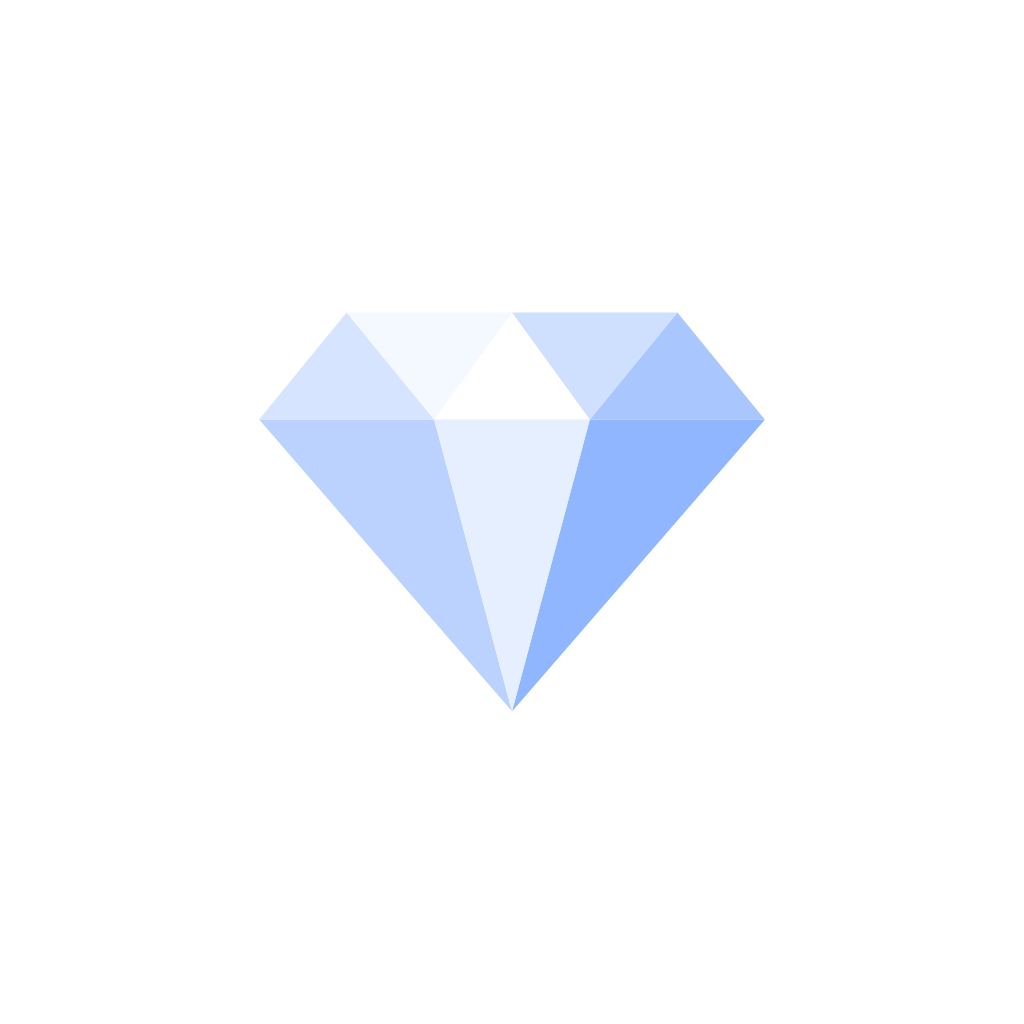
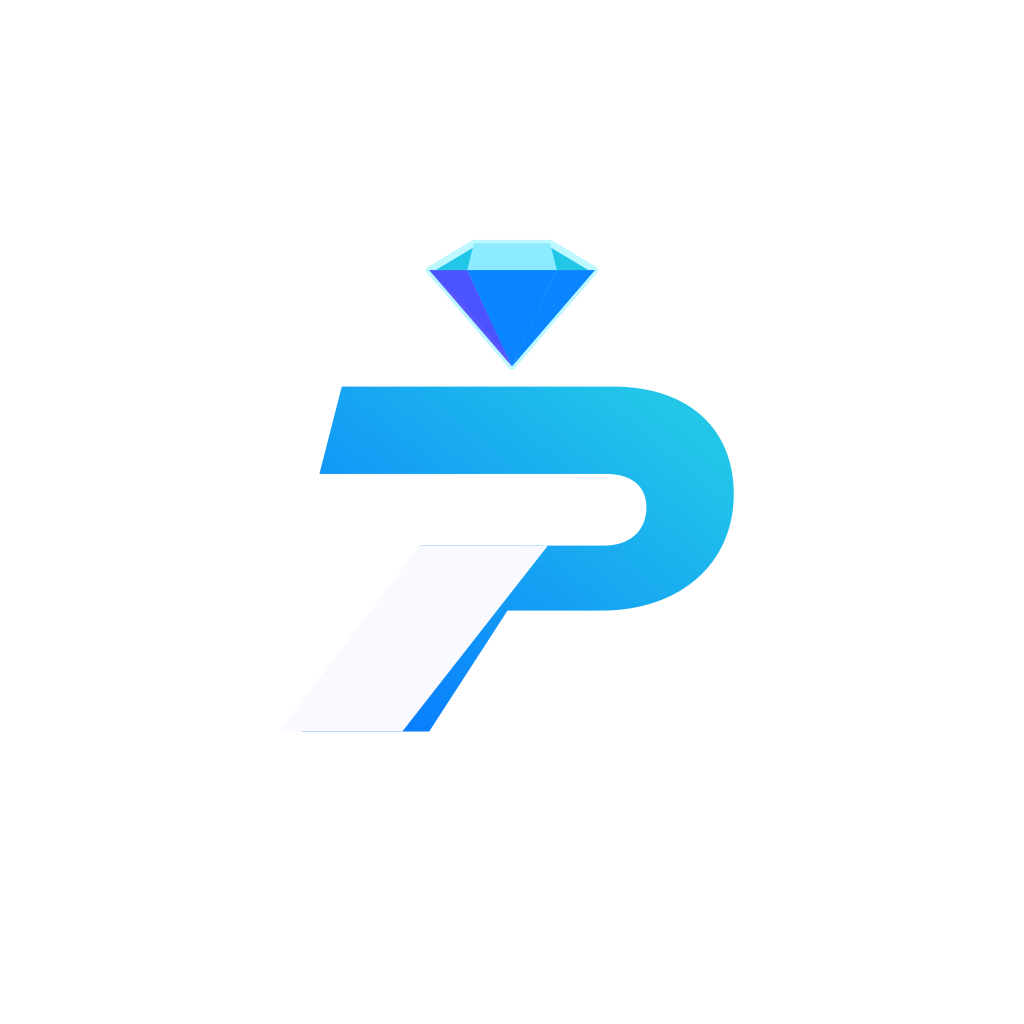
Update UX/UI of all pages

Changed region(s): [[0.25, 0.2188, 0.75, 0.7188]]

diff --git a/src/components/MatchCards.tsx b/src/components/MatchCards.tsx
@@ -1,6 +1,6 @@
 import React from 'react';
 import { Pressable, Text, View } from 'react-native';
-import { Button, ClubAvatar, ClubVerificationBadge, MatchStatusBadge, PressScale, Row, TeamAvatar, pts, whenShort } from '../ui';
+import { ClubAvatar, ClubVerificationBadge, MatchStatusBadge, PressScale, Row, TeamAvatar, pts, whenShort } from '../ui';
 import { CalendarIcon, ChevronRightIcon } from '../icons';
 import { colors, radius, spacing } from '../theme';
 import type { Match } from '../types';
@@ -31,44 +31,49 @@ export function ClubLine({ m, size = 18 }: { m: Match; size?: number }) {
 }
 
 /** One side of a match: avatar, name and its multipliers / open diamonds. Tapping it opens the prediction slip on that side. */
-export function TeamPlayerCard({ m, k, onOpen, compact }: { m: Match; k: 'a' | 'b'; onOpen: OpenMatch; compact?: boolean }) {
+export function TeamPlayerCard({ m, k, onOpen, compact, dense }: { m: Match; k: 'a' | 'b'; onOpen: OpenMatch; compact?: boolean; dense?: boolean }) {
   const col = k === 'a' ? colors.primary : colors.warning;
   const won = m.status === 'settled' && m.result === k;
   const name = k === 'a' ? m.side_a : m.side_b;
   return (
     <PressScale onPress={() => onOpen(m, k)} scaleTo={0.96} wrapStyle={{ flex: 1 }} style={{
-      flex: 1, alignItems: 'center', justifyContent: 'center', paddingVertical: compact ? 10 : 12, paddingHorizontal: 8, borderRadius: radius.md,
+      flex: 1, alignItems: 'center', justifyContent: 'center', paddingVertical: dense ? 8 : compact ? 10 : 12, paddingHorizontal: dense ? 6 : 8, borderRadius: radius.md,
       backgroundColor: won ? colors.success + '1A' : colors.bg2, borderWidth: won ? 1.5 : 1, borderColor: won ? colors.success : colors.line,
     }}>
-      <TeamAvatar name={name} color={col} size={compact ? 38 : 46} />
-      {m.has_score && (m.score_a != null || m.score_b != null) ? <Text style={{ color: colors.text, fontSize: compact ? 24 : 30, fontWeight: '800', marginTop: 6, letterSpacing: -0.5 }}>{(k === 'a' ? m.score_a : m.score_b) ?? 0}</Text> : null}
-      <Text style={{ color: colors.text, fontWeight: '700', fontSize: 14, marginTop: 8, textAlign: 'center' }} numberOfLines={2}>{name}</Text>
-      <Text style={{ color: won ? colors.success : col, fontSize: 12, fontWeight: '700', marginTop: 2, textAlign: 'center' }}>{won ? '🏆 Won' : detail(m, k)}</Text>
+      <TeamAvatar name={name} color={col} size={dense ? 32 : compact ? 38 : 46} />
+      {m.has_score && (m.score_a != null || m.score_b != null) ? <Text style={{ color: colors.text, fontSize: dense ? 20 : compact ? 24 : 30, fontWeight: '800', marginTop: dense ? 3 : 6, letterSpacing: -0.5 }}>{(k === 'a' ? m.score_a : m.score_b) ?? 0}</Text> : null}
+      <Text style={{ color: colors.text, fontWeight: '700', fontSize: dense ? 13 : 14, marginTop: dense ? 5 : 8, textAlign: 'center' }} numberOfLines={dense ? 1 : 2}>{name}</Text>
+      <Text style={{ color: won ? colors.success : col, fontSize: dense ? 11.5 : 12, fontWeight: '700', marginTop: dense ? 1 : 2, textAlign: 'center' }}>{won ? '🏆 Won' : detail(m, k)}</Text>
     </PressScale>
   );
 }
 
-/** Prominent card for matches that are open for predictions. */
+/** Card for matches that are open for predictions. Kept compact (about 30% shorter than the first version) so more live matches fit on screen. */
 export function LiveMatchCard({ m, onOpen }: { m: Match; onOpen: OpenMatch }) {
   return (
-    <View style={{ backgroundColor: colors.card, borderRadius: radius.xl, borderWidth: 1, borderColor: m.status === 'open' ? colors.success + '55' : colors.line, padding: spacing.lg, marginBottom: 12 }}>
+    <View style={{ backgroundColor: colors.card, borderRadius: radius.lg, borderWidth: 1, borderColor: m.status === 'open' ? colors.success + '55' : colors.line, padding: 12, marginBottom: 10 }}>
       <Row style={{ justifyContent: 'space-between' }}>
-        <Text style={{ color: colors.primarySoft, fontWeight: '700', fontSize: 12.5, flex: 1, marginRight: 8 }} numberOfLines={1}>
+        <Text style={{ color: colors.primarySoft, fontWeight: '700', fontSize: 12, flex: 1, marginRight: 8 }} numberOfLines={1}>
           {m.category_icon ? `${m.category_icon} ` : ''}{m.category ?? 'Match'}{m.event ? ` · ${m.event}` : ''}
         </Text>
-        <MatchStatusBadge status={m.status} />
+        <MatchStatusBadge status={m.status} compact />
       </Row>
-      <Pressable onPress={() => onOpen(m)}>
-        <Text style={{ color: colors.text, fontSize: 18, fontWeight: '800', marginTop: 10, letterSpacing: -0.2 }} numberOfLines={2}>{m.title}</Text>
+      <Pressable onPress={() => onOpen(m)} accessibilityRole="button" accessibilityLabel={`Open ${m.title}`}>
+        <Text style={{ color: colors.text, fontSize: 16, fontWeight: '800', marginTop: 6, letterSpacing: -0.2 }} numberOfLines={1}>{m.title}</Text>
       </Pressable>
-      <View style={{ marginTop: 6 }}><ClubLine m={m} /></View>
-      <Row style={{ marginTop: 14, alignItems: 'stretch' }}>
-        <TeamPlayerCard m={m} k="a" onOpen={onOpen} />
-        <View style={{ width: 34, alignItems: 'center', justifyContent: 'center' }}><Text style={{ color: colors.dim, fontWeight: '800', fontSize: 12 }}>VS</Text></View>
-        <TeamPlayerCard m={m} k="b" onOpen={onOpen} />
+      <View style={{ marginTop: 3 }}><ClubLine m={m} size={16} /></View>
+      <Row style={{ marginTop: 10, alignItems: 'stretch' }}>
+        <TeamPlayerCard m={m} k="a" onOpen={onOpen} dense />
+        <View style={{ width: 28, alignItems: 'center', justifyContent: 'center' }}><Text style={{ color: colors.dim, fontWeight: '800', fontSize: 11 }}>VS</Text></View>
+        <TeamPlayerCard m={m} k="b" onOpen={onOpen} dense />
       </Row>
-      <MyPredicted m={m} style={{ marginTop: 10, textAlign: 'center' }} />
-      <Button title={m.status === 'open' ? 'View match & predict' : 'View match'} onPress={() => onOpen(m)} small style={{ marginTop: 14 }} />
+      <Row style={{ marginTop: 8, justifyContent: 'space-between' }}>
+        <MyPredicted m={m} style={{ flex: 1, marginRight: 8, fontSize: 12 }} />
+        <PressScale onPress={() => onOpen(m)} accessibilityLabel={m.status === 'open' ? 'View match and predict' : 'View match'}
+          style={{ backgroundColor: colors.primary, borderRadius: radius.pill, paddingHorizontal: 14, minHeight: 32, alignItems: 'center', justifyContent: 'center' }}>
+          <Text style={{ color: colors.white, fontWeight: '800', fontSize: 12.5 }}>{m.status === 'open' ? 'Predict' : 'View'}</Text>
+        </PressScale>
+      </Row>
     </View>
   );
 }

diff --git a/src/components/Brand.tsx b/src/components/Brand.tsx
@@ -1,0 +1,60 @@
+import React from 'react';
+import { Text, View } from 'react-native';
+import Svg, { Defs, LinearGradient, Path, Stop } from 'react-native-svg';
+import { colors, font } from '../theme';
+
+/* Official PickArena diamond-P mark and faceted diamond (vector paths from the brand kit: public/branding/pickarena-mark.svg). */
+
+function Gem() {
+  return (
+    <>
+      <Path d="M91 20 111 8h34l20 12-37 43Z" fill="#22C7E8" stroke="#BDF7FF" strokeWidth={3} strokeLinejoin="round" />
+      <Path d="M91 20h74l-17 17h-40Z" fill="#35D9FF" />
+      <Path d="M111 8 108 20h40l-3-12Z" fill="#8CEBFF" />
+      <Path d="m108 20 20 43 20-43Z" fill="#0A84FF" />
+      <Path d="m91 20 17 0 20 43Z" fill="#4F46FF" opacity={0.9} />
+      <Path d="m165 20-17 0-20 43Z" fill="#0A84FF" />
+    </>
+  );
+}
+
+/** The standalone diamond + P mark, for compact spaces, headers and avatars. `light` gives the P a dark tail for light backgrounds. */
+export function BrandMark({ size = 32, light = false }: { size?: number; light?: boolean }) {
+  return (
+    <Svg width={size} height={size} viewBox="0 0 256 256" accessibilityLabel="PickArena" accessible>
+      <Defs>
+        <LinearGradient id="paBlue" x1="0.08" y1="0.9" x2="0.9" y2="0.1">
+          <Stop offset="0" stopColor="#087BFF" />
+          <Stop offset="1" stopColor="#22C7E8" />
+        </LinearGradient>
+      </Defs>
+      <Gem />
+      <Path fill="url(#paBlue)" d="M52 72h121c34 0 54 19 54 48 0 31-24 52-59 52h-42l-35 54H34l53-83h82c12 0 19-7 19-17 0-9-6-15-18-15H42Z" />
+      <Path fill={light ? '#14307A' : '#F8FAFF'} d="M87 143h57l-65 83H24Z" />
+    </Svg>
+  );
+}
+
+/** The PickArena virtual diamond: the faceted gem from the logo. Use it everywhere a diamond amount or reward appears. */
+export function DiamondGem({ size = 20 }: { size?: number }) {
+  return (
+    <Svg width={size} height={size} viewBox="88 -4.5 80 80" accessibilityElementsHidden importantForAccessibility="no-hide-descendants">
+      <Gem />
+    </Svg>
+  );
+}
+
+const SIZES = { sm: { gem: 14, text: 13 }, md: { gem: 18, text: 15 }, lg: { gem: 26, text: 22 }, xl: { gem: 36, text: 30 } } as const;
+
+/** [gem] 2,450. Virtual diamonds only: no currency symbol, nothing that suggests real money. */
+export function DiamondBalance({ value, size = 'md', prefix, color = colors.text }: { value: number | string; size?: keyof typeof SIZES; prefix?: string; color?: string }) {
+  const n = Number(value);
+  const shown = Number.isFinite(n) ? n.toLocaleString('en-US') : String(value);
+  const d = SIZES[size];
+  return (
+    <View accessible accessibilityLabel={`${prefix ?? ''}${shown} diamonds`} style={{ flexDirection: 'row', alignItems: 'center' }}>
+      <DiamondGem size={d.gem} />
+      <Text style={{ color, fontSize: d.text, fontWeight: font.weight.heavy, marginLeft: 6 }}>{prefix}{shown}</Text>
+    </View>
+  );
+}

diff --git a/src/ui.tsx b/src/ui.tsx
@@ -1,3 +1,4 @@
+import { BrandMark, DiamondGem } from './components/Brand';
 import React, { useEffect, useRef, useState } from 'react';
 import {
   ActivityIndicator, Animated, Easing, Image, Pressable, RefreshControl, ScrollView, StyleSheet, Text, TextInput, TextInputProps, View, ViewStyle,
@@ -45,11 +46,9 @@ export function PressScale({ children, onPress, style, wrapStyle, disabled, scal
 
 export function Logo({ size = 30 }: { size?: number }) {
   return (
-    <View style={{ flexDirection: 'row', alignItems: 'center' }}>
-      <View style={{ width: size, height: size, borderRadius: size * 0.3, backgroundColor: colors.primary, alignItems: 'center', justifyContent: 'center', marginRight: 8 }}>
-        <DiamondIcon size={size * 0.62} color={colors.white} />
-      </View>
-      <Text style={s.brand}>Pick<Text style={{ color: colors.primarySoft }}>Arena</Text></Text>
+    <View style={{ flexDirection: 'row', alignItems: 'center' }} accessible accessibilityLabel="PickArena">
+      <BrandMark size={size * 1.25} />
+      <Text style={[s.brand, { marginLeft: 6 }]}>Pick<Text style={{ color: colors.primarySoft }}>Arena</Text></Text>
     </View>
   );
 }
@@ -61,7 +60,7 @@ export function DiamondWalletButton() {
   const total = (q.data ?? []).filter((x) => x.membership === 'approved').reduce((a, x) => a + Number(x.balance ?? 0), 0);
   return (
     <PressScale onPress={() => nav.navigate('AddDiamonds')} accessibilityLabel="Add diamonds" hitSlop={8} style={s.pill}>
-      <DiamondIcon size={16} color={colors.primarySoft} />
+      <DiamondGem size={18} />
       <Text style={s.pillText}>{pts(total)}</Text>
       <View style={s.plus}><PlusIcon size={14} color={colors.white} /></View>
     </PressScale>

diff --git a/src/theme.ts b/src/theme.ts
@@ -1,25 +1,34 @@
-/** Central design tokens for PickArena. Change a value here and the whole app follows. */
+/** Central design tokens for PickArena (PickArena Diamond brand kit). Change a value here and the whole app follows.
+ *  Mirrors public/branding/brand-tokens.css on the website. */
+export const gradients = {
+  primary: ['#0A84FF', '#4F46FF'] as const,
+  diamond: ['#22C7E8', '#3DD8FF', '#0A84FF'] as const,
+};
+
 export const colors = {
-  bg: '#0B1020',
-  bg2: '#11192B',
-  card: '#171F35',
-  elevated: '#202B49',
-  line: '#293550',
-  primary: '#397BFF',
-  primarySoft: '#75A7FF',
-  success: '#18C987',
+  bg: '#0B1226',
+  bg2: '#111B33',
+  card: '#162442',
+  elevated: '#1C2E52',
+  line: '#263653',
+  primary: '#0A84FF',
+  primarySoft: '#3DD8FF',
+  secondary: '#4F46FF',   // brand violet-blue, used in the primary gradient
+  cyan: '#22C7E8',
+  diamond: '#3DD8FF',
+  success: '#10B981',
   warning: '#FF906F',
-  danger: '#FF5D6C',
-  amber: '#F5B544',
-  text: '#F4F6FF',
-  dim: '#929DB8',
+  danger: '#EF4444',
+  amber: '#FFC542',
+  text: '#F8FAFF',
+  dim: '#94A3B8',
   white: '#FFFFFF',
 };
 
 export const spacing = { xs: 4, sm: 8, md: 12, lg: 16, xl: 24, xxl: 32 };
 export const radius = { sm: 8, md: 12, lg: 16, xl: 22, pill: 999 };
 
-/** Inter / SF Pro are used when installed; the system font (SF Pro on iOS, Roboto on Android) otherwise. */
+/** Brand font is Plus Jakarta Sans. It is used once the font is loaded (see README, Brand), the system font (SF Pro on iOS, Roboto on Android) until then. */
 export const font = {
   family: undefined as string | undefined,
   size: { xs: 11, sm: 13, md: 15, lg: 17, xl: 22, xxl: 28 },

diff --git a/src/icons.tsx b/src/icons.tsx
@@ -1,6 +1,7 @@
 import React from 'react';
 import Svg, { Circle, Path, Rect } from 'react-native-svg';
 import { colors } from './theme';
+import { DiamondGem } from './components/Brand';
 
 export interface IconProps { size?: number; color?: string; filled?: boolean }
 const base = (size: number) => ({ width: size, height: size, viewBox: '0 0 24 24', fill: 'none' as const });
@@ -23,12 +24,8 @@ export const UsersIcon = ({ size = 24, color = colors.dim, filled }: IconProps) 
     <Path d="M16 5.6a3.1 3.1 0 0 1 0 5.8M18 14.6c1.8.6 3 2.2 3 4.4" {...stroke(color)} />
   </Svg>
 );
-export const DiamondIcon = ({ size = 24, color = colors.dim, filled }: IconProps) => (
-  <Svg {...base(size)}>
-    <Path d="M7 4h10l4 5.2L12 20 3 9.2 7 4Z" {...stroke(color)} fill={filled ? color : 'none'} fillOpacity={filled ? 0.2 : 0} />
-    <Path d="M3 9.2h18M9.2 4 8 9.2 12 20l4-10.8L14.8 4" {...stroke(color)} />
-  </Svg>
-);
+/** The PickArena diamond is always the faceted brand gem; `color` and `filled` are ignored so the currency looks the same everywhere. */
+export const DiamondIcon = ({ size = 24 }: IconProps) => <DiamondGem size={size} />;
 export const UserIcon = ({ size = 24, color = colors.dim, filled }: IconProps) => (
   <Svg {...base(size)}>
     <Circle cx="12" cy="8.2" r="3.7" {...stroke(color)} fill={filled ? color : 'none'} fillOpacity={filled ? 0.18 : 0} />

diff --git a/src/components/BottomNavigation.tsx b/src/components/BottomNavigation.tsx
@@ -18,7 +18,7 @@ function Item({ label, focused, onPress, onLongPress, Icon }: { label: string; f
     <Pressable onPress={onPress} onLongPress={onLongPress} accessibilityRole="tab" accessibilityLabel={label} accessibilityState={{ selected: focused }} style={s.item} hitSlop={4}>
       <Animated.View style={{ alignItems: 'center', transform: [{ translateY: lift }] }}>
         <Animated.View style={[s.dot, { opacity: v }]} />
-        <Icon size={24} color={color} filled={focused} />
+        <View style={{ opacity: focused ? 1 : 0.62 }}><Icon size={24} color={color} filled={focused} /></View>
         <Text style={[s.label, { color }]}>{label}</Text>
       </Animated.View>
     </Pressable>
